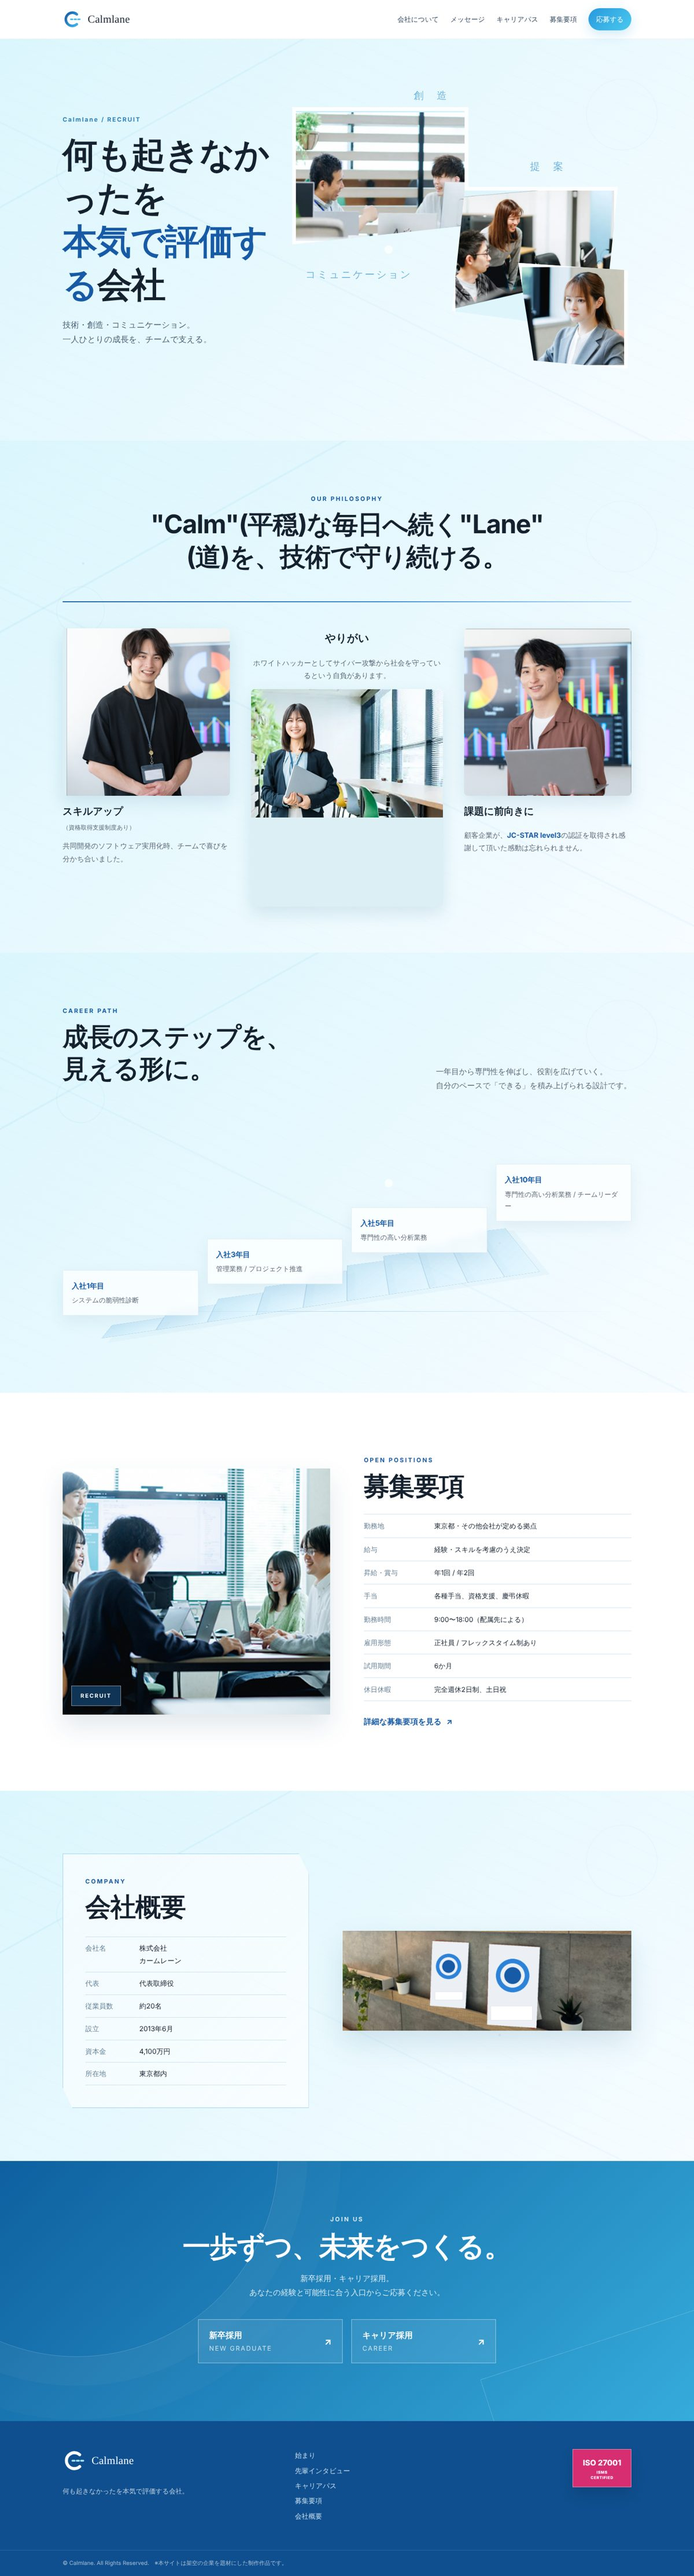
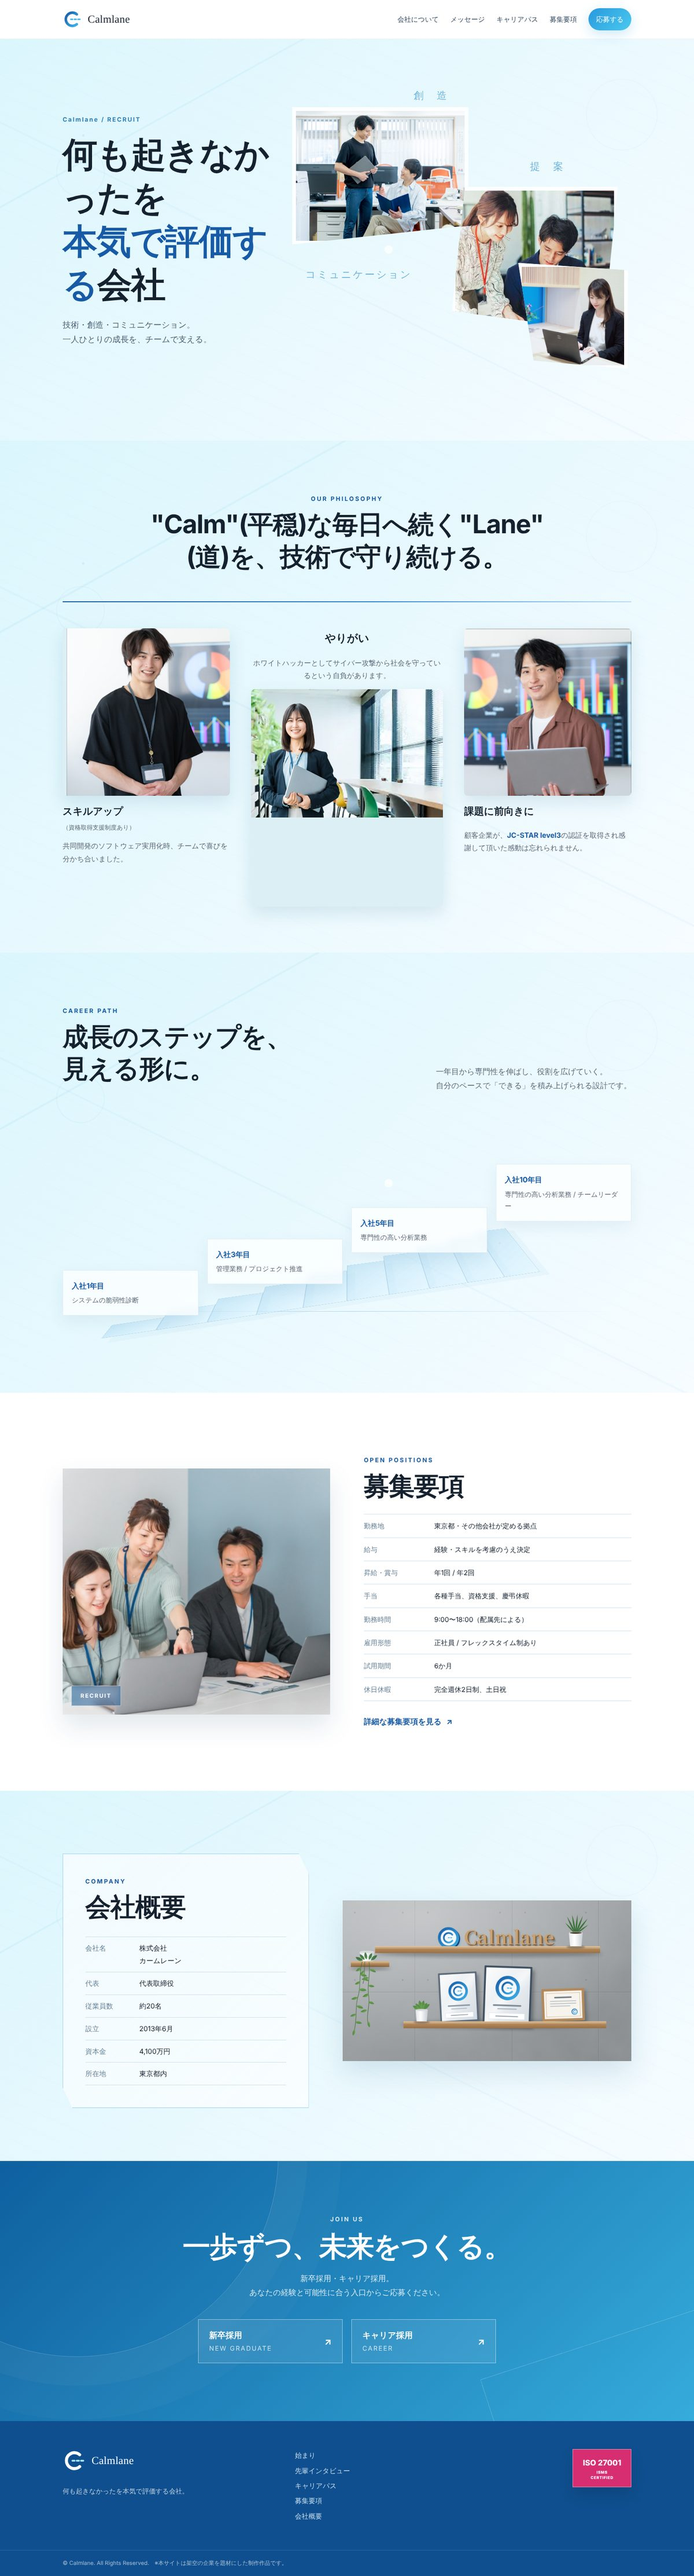
Add files via upload

Changed region(s): [[0.0925, 0.5625, 0.4933, 0.6875], [0.4933, 0.7188, 0.925, 0.8125], [0.4008, 0.0312, 0.8942, 0.1562]]

diff --git a/index.html b/index.html
@@ -5,8 +5,8 @@
   <meta charset="UTF-8">
   <meta name="viewport" content="width=device-width, initial-scale=1.0">
   <!-- ✎ 名前を入れてください -->
-  <title>【RIKA SHIBANO】 | Portfolio</title>
-  <meta name="description" content="【柴野 理佳】のWebデザインポートフォリオ">
+  <title>RIKA SHIBANO | Portfolio</title>
+  <meta name="description" content="柴野 理佳のWebデザインポートフォリオ">
   <link rel="preconnect" href="https://fonts.googleapis.com">
   <link rel="preconnect" href="https://fonts.gstatic.com" crossorigin>
   <link
@@ -30,7 +30,7 @@
 <body>
   <header class="header">
     <div class="wrap header-inner">
-      <a class="logo" href="#top"><span class="fill">【柴野 理佳（SHIBANO RIKA）】</span></a>
+      <a class="logo" href="#top"><span class="fill">柴野 理佳（SHIBANO RIKA）</span></a>
       <nav class="nav">
         <a href="#about">About</a>
         <a href="#works">Works</a>
@@ -47,11 +47,11 @@
         <p class="kicker">WEB DESIGN PORTFOLIO</p>
         <h1 class="hero-title">
           <!-- ✎ 自分を表すキャッチコピー（例の形だけ残しています） -->
-          <span class="fill">【楽しいを形に】</span>
+          <span class="fill">楽しいを形に</span>
         </h1>
         <p class="hero-name">
-          <span class="fill">【柴野 理佳】</span>
-          <small><span class="fill">【パソコン・ネットワークスクールAUC職業訓練中】</span></small>
+          <span class="fill">柴野 理佳</span>
+          <small><span class="fill">パソコン・ネットワークスクールAUC職業訓練中</span></small>
         </p>
       </div>
       <div class="hero-visual" aria-hidden="true">
@@ -68,7 +68,7 @@
         </div>
         <div>
           <!-- ✎ 自己紹介：デザインを学んだきっかけ、大切にしていること、目指す仕事など -->
-          <p class="fill block">【新しい技術を使って、よりよいものをお伝えしたい。そんな気持ちで学び、仕事につなげたい。と思っています。】</p>
+          <p class="fill block">新しい技術を使って、よりよいものをお伝えしたい。そんな気持ちで学び、仕事につなげたい。と思っています。</p>
 
           <h3 class="sub">スキル</h3>
           <!-- ✎ 使えるツールを足したり消したりしてください -->
@@ -76,8 +76,9 @@
             <li>HTML / CSS</li>
           
             <li>VS Code</li>
-            <li class="fill">【Photoshop など】</li>
-            <li class="fill">【Illustrator / Figma など】</li>
+            <li>Photoshop</li>
+            <li>Illustrator</li>
+            <li>Figma</li>
           </ul>
         </div>
       </div>
@@ -115,11 +116,11 @@
           <dl class="work-data">
             <div>
               <dt>制作期間</dt>
-              <dd class="fill">【約2週間】</dd>
+              <dd class="fill">約2週間</dd>
             </div>
             <div>
               <dt>担当範囲</dt>
-              <dd class="fill">【企画・デザイン】</dd>
+              <dd class="fill">企画・デザイン</dd>
             </div>
             <div>
               <dt>使用ツール</dt>
@@ -135,7 +136,7 @@
             <section>
               <h4>制作の目的・ターゲット</h4>
               <!-- ✎ 課題の内容、誰に向けたサイトか -->
-              <p class="fill block">【サイバーセキュリティに特化した会社の求人サイトで、中途採用枠の20～30代の人です。】</p>
+              <p class="fill block">サイバーセキュリティに特化した会社の求人サイトで、中途採用枠の20～30代の人です。</p>
             </section>
 
             <section>
@@ -168,12 +169,12 @@
             <section>
               <h4>苦労した点・学んだこと</h4>
               <!-- ✎ 一番伝えたい部分です。自分の体験を書いてください -->
-              <p class="fill block">【figmaのデザインカンプをＡＩに読み取ってもらう際に、イメージしていたものと乖離があったので、Vs Codeで修正するのに時間がかかりました。】</p>
+              <p class="fill block">figmaのデザインカンプをＡＩに読み取ってもらう際に、イメージしていたものと乖離があったので、Vs Codeで修正するのに時間がかかりました。</p>
             </section>
           </div>
 
           <a class="work-link" href="works/recruit-site/index.html" target="_blank" rel="noopener">サイトを見る <span>↗</span></a>
-          <p class="note">※実在しない企業を題材にした制作作品です。<span class="fill">【写真素材の出典：フリー素材.類似会社ＨＰ】</span></p>
+          <p class="note">※実在しない企業を題材にした制作作品です。<span class="fill">写真素材の出典：フリー素材</span></p>
         </article>
 
         <!-- ---------- WORK 02 ---------- -->
@@ -195,7 +196,7 @@
               <section>
                 <h4>制作の目的・ターゲット</h4>
                 <!-- ✎ 誰に向けて、何を伝えるためのカレンダーか -->
-                <p class="fill block">【お花に興味のある近所の方】</p>
+                <p class="fill block">お花に興味のある近所の方</p>
               </section>
 
               <section>
@@ -218,7 +219,7 @@
 
               <section>
                 <h4>苦労した点・学んだこと</h4>
-                <p class="fill block">【カレンダー作成が思った以上に時間がかかりました。】</p>
+                <p class="fill block">カレンダー作成が思った以上に時間がかかりました。</p>
               </section>
             </div>
           </div>
@@ -226,22 +227,22 @@
           <dl class="work-data">
             <div>
               <dt>制作期間</dt>
-              <dd class="fill">【約3日】</dd>
+              <dd class="fill">約3日</dd>
             </div>
             <div>
               <dt>担当範囲</dt>
-              <dd class="fill">【デザイン】</dd>
+              <dd class="fill">デザイン</dd>
             </div>
             <div>
               <dt>使用ツール</dt>
-              <dd class="fill">【Illustrator / Photoshop】</dd>
+              <dd class="fill">Illustrator / Photoshop</dd>
             </div>
             <div>
               <dt>サイズ</dt>
-              <dd class="fill">【ハガキサイズ 100×148mm】</dd>
+              <dd class="fill">ハガキサイズ 100×148mm</dd>
             </div>
           </dl>
-          <p class="note"><span class="fill">【写真の撮影者・出典は、実在の教室運営者(許可済)】</span></p>
+          <p class="note"><span class="fill">写真の撮影者・出典は、実在の教室運営者(許可済)</span></p>
         </article>
 
         <!-- ---------- WORK 03 ---------- -->
@@ -262,7 +263,7 @@
                 <p class="g-type">YouTubeサムネイル（16:9）</p>
                 <p class="draft-text">くつろぐレッサーパンダの写真に、大きさと色を変えた文字を重ね、思わずクリックしたくなるユーモラスな雰囲気にしました。</p>
                 <!-- ✎ 工夫した点などを自分の言葉で -->
-                <p class="fill block">【Photoshop・約2時間・文字が主張しすぎないように気をつけました。】</p>
+                <p class="fill block">Photoshop・約2時間・文字が主張しすぎないように気をつけました。</p>
               </figcaption>
             </figure>
             <figure class="g-card">
@@ -274,7 +275,7 @@
                   
                 </p>
                 <!-- ✎ 工夫した点などを自分の言葉で -->
-                <p class="fill block">【Photoshop・約2時間・ビル街の空の抜けているところは、平行に近かったものを角度をつけて広げ、車にはトーンカーブで艶を出しました。】</p>
+                <p class="fill block">Photoshop・約2時間・ビル街の空の抜けているところは、平行に近かったものを角度をつけて広げ、車にはトーンカーブで艶を出しました。</p>
               </figcaption>
             </figure>
             <figure class="g-card">
@@ -284,7 +285,7 @@
                 <p class="g-type">写真加工（16:9）</p>
                 <p class="draft-text">いけばなの写真2点の色を大胆に反転・強調し、円形のぼかしで切り抜いて、幻想的な世界観に仕上げました。</p>
                 <!-- ✎ 工夫した点などを自分の言葉で -->
-                <p class="fill block">【Photoshop・約1日・2枚の写真をコラージュしてつなぎ目や背景にグラデーションをかけてからトーンカーブで仕上げました。】</p>
+                <p class="fill block">Photoshop・約1日・2枚の写真をコラージュしてつなぎ目や背景にグラデーションをかけてからトーンカーブで仕上げました。</p>
               </figcaption>
             </figure>
           </div>
@@ -300,8 +301,8 @@
         <p class="kicker">CONTACT</p>
         <h2>お問い合わせ</h2>
         <!-- ✎ 締めのひとこと -->
-        <p class="fill block">【ご覧いただきありがとうございました】</p>
-        <a class="mail" href="mailto:"><span class="fill">【wekikaku.2026@gmail.com】</span></a>
+        <p class="fill block">ご覧いただきありがとうございました</p>
+        <a class="mail" href="mailto:wekikaku.2026@gmail.com"><span class="fill">wekikaku.2026@gmail.com</span></a>
       </div>
     </section>
 
@@ -309,7 +310,7 @@
 
   <footer class="footer">
     <div class="wrap">
-      <small>© <span class="fill">【柴野 理佳】</span></small>
+      <small>© <span class="fill">柴野 理佳</span></small>
     </div>
   </footer>
 
